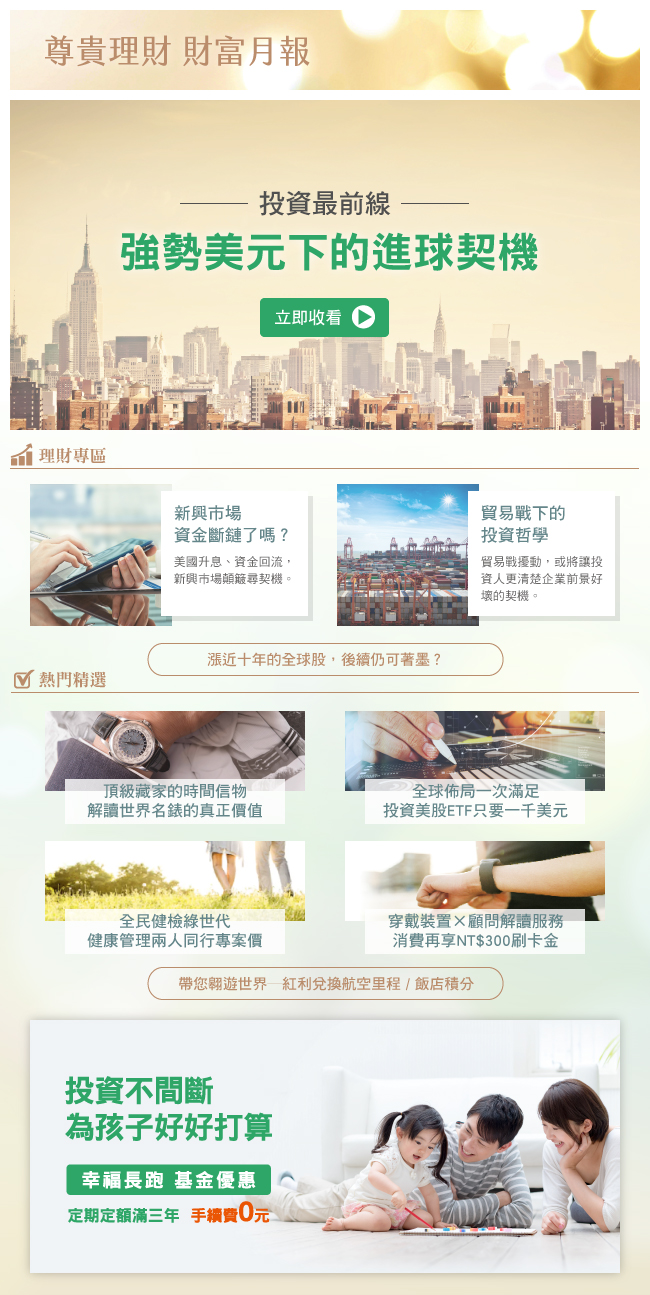
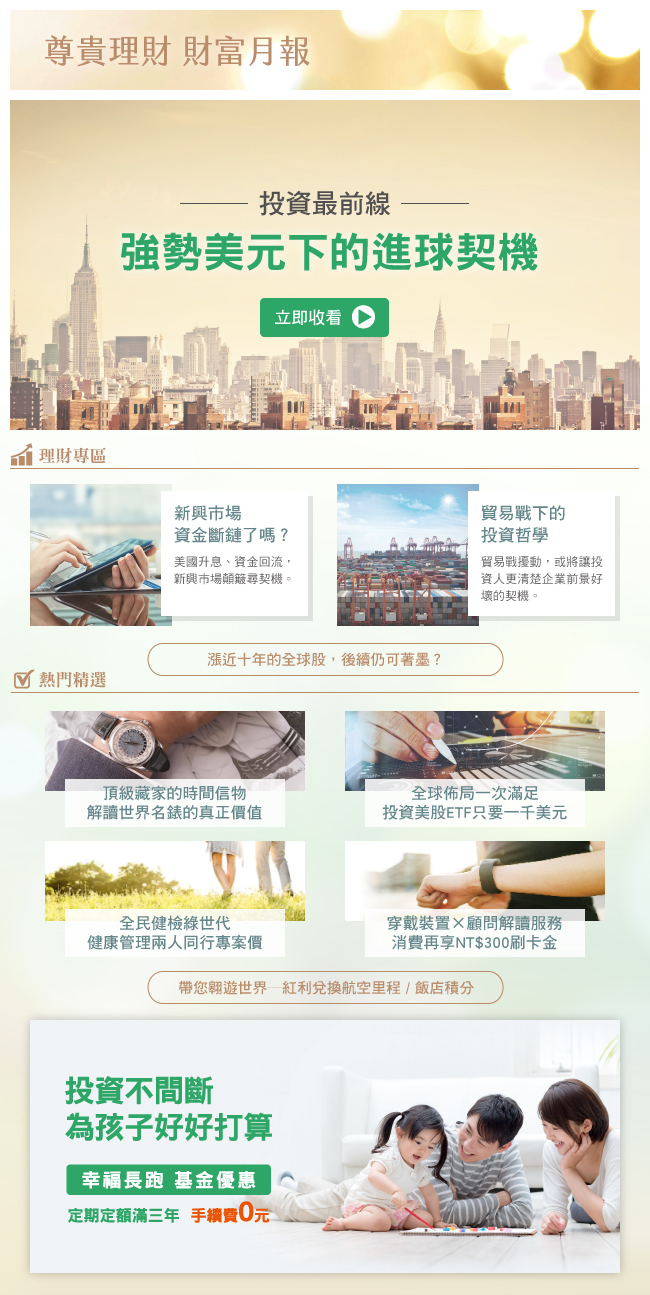
up

diff --git a/monthly-report-201807/index.html b/monthly-report-201807/index.html
@@ -130,15 +130,15 @@
 
 <map name="Map6">
   <area shape="rect" coords="9,100,640,431" href="https://youtu.be/sFnMC6j2nuw?CUB_SRC=WM_EDM&CUB_CHL1=BAN&CUB_CHL2=01&MA_TK=WM080&CUB_DT=20180710" target="_blank" alt="強勢美元下的進球契機">
-  <area shape="rect" coords="155,967,496,1000" href="https://www.cathaybk.com.tw/cathaybk/personal/credit-card/discount/bonus/airmiles/bonus-01/?CUB_SRC=WM_EDM&CUB_CHL1=BAN&CUB_CHL2=01&MA_TK=WM080&CUB_DT=20180710" target="_blank" alt="帶您翱遊世界─紅利兌換航空里程/飯店積分">
+  <area shape="rect" coords="155,971,496,1004" href="https://www.cathaybk.com.tw/cathaybk/personal/credit-card/discount/bonus/airmiles/bonus-01/?CUB_SRC=WM_EDM&CUB_CHL1=BAN&CUB_CHL2=01&MA_TK=WM080&CUB_DT=20180710" target="_blank" alt="帶您翱遊世界─紅利兌換航空里程/飯店積分">
   <area shape="rect" coords="156,642,496,675" href="https://www.cathaybk.com.tw/cathaybk/promo/event/fund/cathayfund/market.html?CUB_SRC=WM_EDM&CUB_CHL1=BAN&CUB_CHL2=01&MA_TK=WM080&CUB_DT=20180710" target="_blank" alt="漲近十年的全球股，後續仍可著墨？">
   <area shape="rect" coords="30,484,314,626" href="https://www.cathaybk.com.tw/cathaybk/" target="_blank" alt="新興市場，資金斷鏈了嗎？">
 <area shape="rect" coords="30,1018,622,1273" href="https://www.cathaybk.com.tw/cathaybk/promo/event/fund/cathayfund/zero/index.html?type=type2" target="_blank" alt="幸福長跑">
 <area shape="rect" coords="337,483,622,626" href="https://www.cathaybk.com.tw/cathaybk/" target="_blank" alt="貿易戰下的投資哲學">
-<area shape="rect" coords="29,710,313,824" href="https://www.cathaybk.com.tw/cathaybk/" target="_blank" alt="頂級藏家的時間信物">
-<area shape="rect" coords="337,710,619,824" href="https://www.cathaybk.com.tw/cathaybk/" target="_blank" alt="投資美股ETF只要一千美元">
-<area shape="rect" coords="29,840,313,954" href="https://www.cathay-hcm.com.tw/tw/front/newsItem/8a95bc2261b7888701635dc7fd35030a?CUB_SRC=WM_EDM&CUB_CHL1=BAN&CUB_CHL2=01&MA_TK=WM080&CUB_DT=20180710" target="_blank" alt="健康管理兩人同行專案價">
-<area shape="rect" coords="337,840,620,955" href="https://www.cathaybk.com.tw/cathaybk/promo/edm/payment/product/2018/fitbit/images/notice.pdf?CUB_SRC=WM_EDM&CUB_CHL1=BAN&CUB_CHL2=01&MA_TK=WM080&CUB_DT=20180710" target="_blank" alt="穿戴裝置X顧問解讀服務">
+<area shape="rect" coords="29,710,313,828" href="https://www.cathaybk.com.tw/cathaybk/" target="_blank" alt="頂級藏家的時間信物">
+<area shape="rect" coords="337,710,619,827" href="https://www.cathaybk.com.tw/cathaybk/" target="_blank" alt="投資美股ETF只要一千美元">
+<area shape="rect" coords="29,840,313,956" href="https://www.cathay-hcm.com.tw/tw/front/newsItem/8a95bc2261b7888701635dc7fd35030a?CUB_SRC=WM_EDM&CUB_CHL1=BAN&CUB_CHL2=01&MA_TK=WM080&CUB_DT=20180710" target="_blank" alt="健康管理兩人同行專案價">
+<area shape="rect" coords="337,840,620,957" href="https://www.cathaybk.com.tw/cathaybk/promo/edm/payment/product/2018/fitbit/images/notice.pdf?CUB_SRC=WM_EDM&CUB_CHL1=BAN&CUB_CHL2=01&MA_TK=WM080&CUB_DT=20180710" target="_blank" alt="穿戴裝置X顧問解讀服務">
 </map>
 
 <map name="Map">
